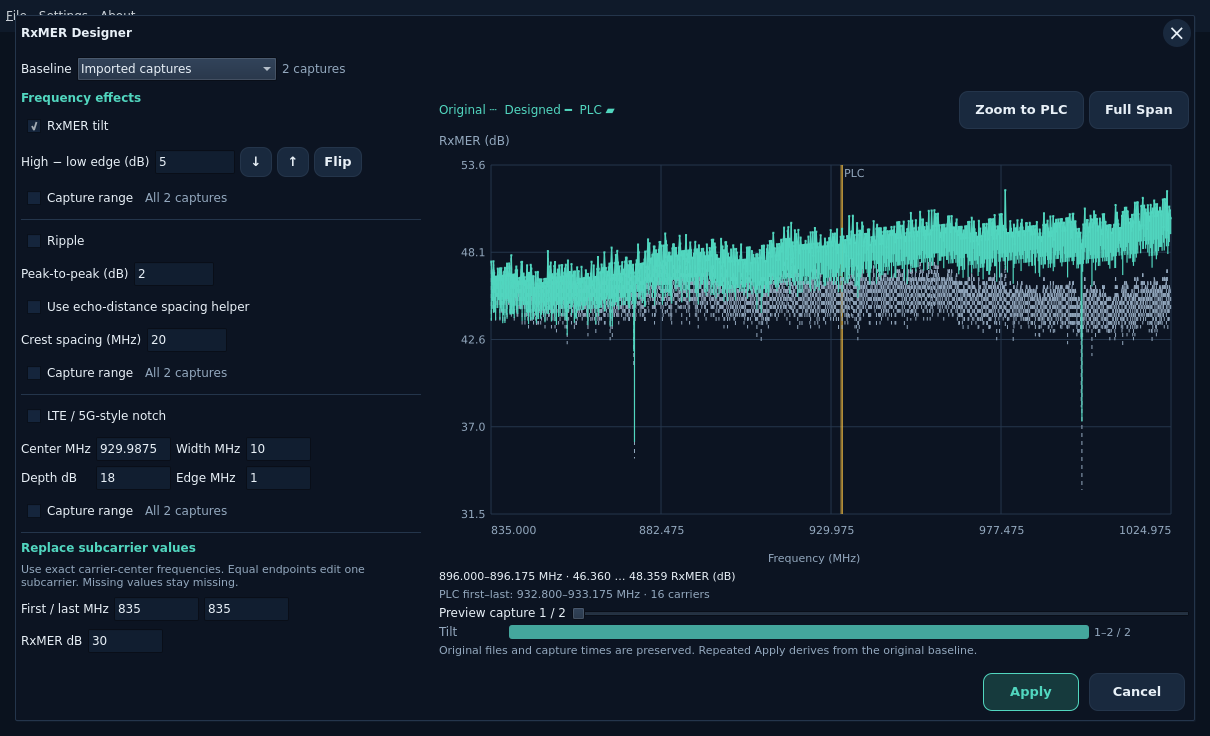
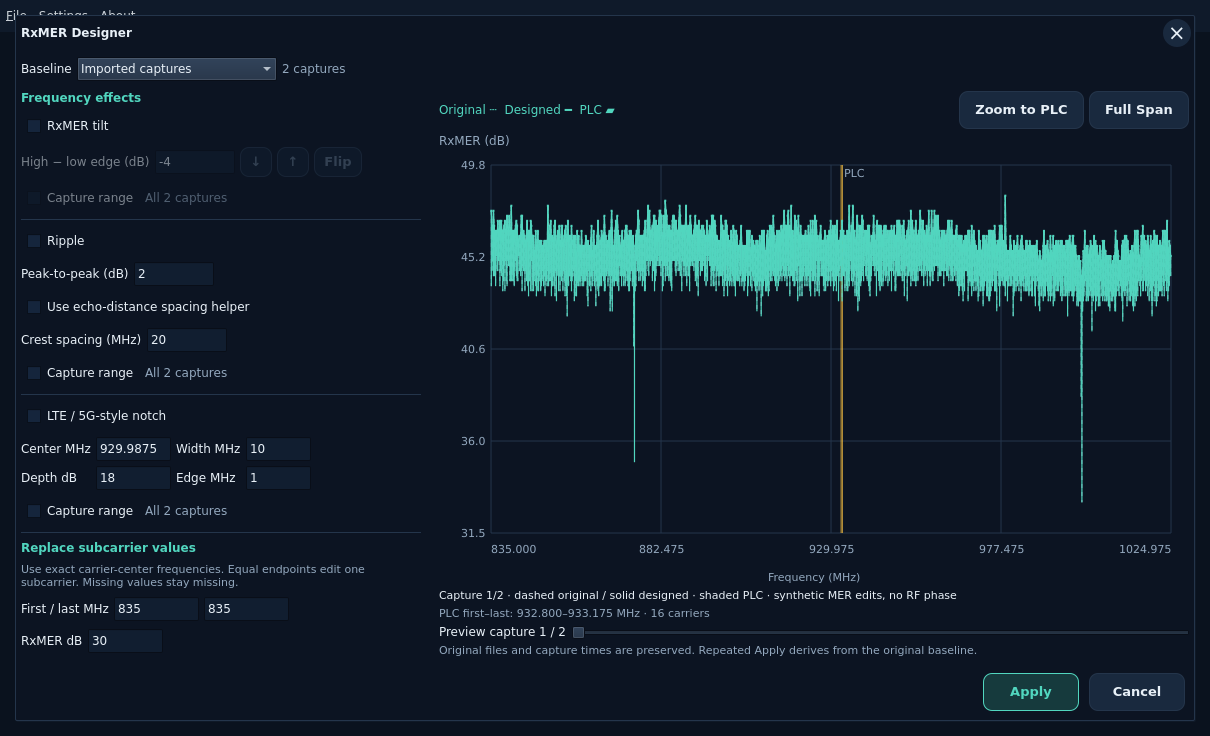
BugFix: Disable inactive RxMER tilt controls - Preserve tilt settings when toggled off - Update guide and native screenshot - Tests: 67 QML checks and native Qt build

diff --git a/apps/qt/qml/inputs/measurement_input/RxmerDesignerDialog.qml b/apps/qt/qml/inputs/measurement_input/RxmerDesignerDialog.qml
@@ -35,7 +35,7 @@ WorkbenchDialog {
     }
     function canStepTilt(delta) {
         const value=Number(tiltDb.text)
-        return tiltDb.text.trim().length>0 && Number.isFinite(value) && value>=-60 && value<=60 && value+delta>=-60 && value+delta<=60
+        return tilt.checked && tiltDb.text.trim().length>0 && Number.isFinite(value) && value>=-60 && value<=60 && value+delta>=-60 && value+delta<=60
     }
     function stepTilt(delta) {
         if (canStepTilt(delta)) {tiltDb.text=String(Number(tiltDb.text)+delta);refresh()}
@@ -99,7 +99,8 @@ WorkbenchDialog {
                     width:parent.width;spacing:8
                     Label {text:"Frequency effects";color:theme.accent;font.bold:true}
                     CheckBox {id:tilt;objectName:"designerTilt";text:"RxMER tilt";onToggled:dialog.refresh()}
-                    RowLayout {Label {text:"High − low edge (dB)";color:theme.text}
+                    RowLayout {enabled:tilt.checked;opacity:enabled ? 1:0.5
+                        Label {text:"High − low edge (dB)";color:theme.text}
                         TextField {
                             id:tiltDb;objectName:"designerTiltDb";text:"-4";Layout.preferredWidth:80
                             Accessible.name:"High minus low edge tilt in dB"
@@ -129,7 +130,7 @@ WorkbenchDialog {
                             Accessible.description:ToolTip.text
                         }
                     }
-                    RxmerDesignScope {id:tiltScope;theme:dialog.theme;captureCount:dialog.captureCount;onEdited:dialog.refresh()}
+                    RxmerDesignScope {id:tiltScope;objectName:"designerTiltScope";enabled:tilt.checked;opacity:enabled ? 1:0.5;theme:dialog.theme;captureCount:dialog.captureCount;onEdited:dialog.refresh()}
                     Rectangle {Layout.fillWidth:true; height:1;color:theme.line}
                     CheckBox {id:ripple;objectName:"designerRipple";text:"Ripple";onToggled:dialog.refresh()}
                     RowLayout {Label {text:"Peak-to-peak (dB)";color:theme.text}

diff --git a/apps/qt/tests/tst_rxmer_designer.qml b/apps/qt/tests/tst_rxmer_designer.qml
@@ -26,6 +26,30 @@ Pane {
     TestCase {
         name:"RxmerDesigner";when:windowShown
         function cleanup(){dialog.close();wait(100)}
+        function test_unchecked_tilt_disables_controls_and_retains_draft(){
+            dialog.open();tryCompare(dialog,"visible",true)
+            const toggle=findChild(dialog,"designerTilt"), field=findChild(dialog,"designerTiltDb")
+            const scope=findChild(dialog,"designerTiltScope")
+            const up=findChild(dialog,"designerTiltUp"), down=findChild(dialog,"designerTiltDown"), flip=findChild(dialog,"designerTiltFlip")
+            verify(!toggle.checked);verify(toggle.enabled)
+            verify(!field.enabled);verify(!scope.enabled)
+            verify(!up.enabled);verify(!down.enabled);verify(!flip.enabled)
+            mouseClick(toggle)
+            verify(field.enabled);verify(scope.enabled);verify(up.enabled);verify(down.enabled);verify(flip.enabled)
+            field.text="-6";scope.restore({mode:"range",first:10,last:20});dialog.refresh()
+            mouseClick(toggle)
+            verify(!field.enabled);verify(!scope.enabled)
+            verify(!up.enabled);verify(!down.enabled);verify(!flip.enabled)
+            compare(backend.lastRequest.recipe.tilt,null)
+            dialog.stepTilt(1);compare(field.text,"-6")
+            verify(findChild(dialog,"designerRipple").enabled)
+            verify(findChild(dialog,"designerNotch").enabled)
+            mouseClick(toggle)
+            compare(field.text,"-6");verify(scope.enabled)
+            compare(backend.lastRequest.recipe.tilt.tilt_db,-6)
+            compare(backend.lastRequest.recipe.tilt.scope.first,10)
+            compare(backend.lastRequest.recipe.tilt.scope.last,20)
+        }
         function test_flip_reverses_signed_tilt_without_changing_magnitude_or_zoom(){
             dialog.open();tryCompare(dialog,"visible",true)
             findChild(dialog,"designerTilt").checked=true

diff --git a/docs/user/measurement-inputs/rxmer-designer.md b/docs/user/measurement-inputs/rxmer-designer.md
@@ -7,8 +7,10 @@ an association anchor; it is not a measured acquisition time.
 
 ![RxMER Designer with a continuous PLC region](../../images/workbench/rxmer-designer-dark.png)
 
-Enable the effects you need. The tilt text box remains editable; its **↓ / ↑**
-buttons or the field’s Up/Down keys adjust the current value by exactly **1 dB**.
+Enable the effects you need. When **RxMER tilt** is unchecked, its value,
+arrows, Flip and capture-range controls are disabled. Their settings are retained
+and restored when you check it again. With tilt enabled, the text box remains
+editable; its **↓ / ↑** buttons or the field’s Up/Down keys adjust the current value by exactly **1 dB**.
 Fractional typed values remain supported. Steps beyond ±60 dB or from invalid
 text are disabled. Press **Flip** beside the arrows to reverse the tilt direction
 by changing its sign: **−5 dB ↔ +5 dB**. Positive tilt raises the high-frequency

diff --git a/docs/development/features/rxmer-designer/design.md b/docs/development/features/rxmer-designer/design.md
@@ -90,3 +90,12 @@ and retains magnitude, capture scope and zoom. Disable it for zero or invalid
 text. Existing Rust recipe validation and low-frequency anchoring remain the
 scientific authority. Verify both directions, fractional magnitude, bounds,
 keyboard activation and retained zoom; rebuild and capture the native window.
+
+## RXMER-DESIGN-06: disable inactive tilt controls
+
+Gate the tilt value/action row and capture scope on the RxMER tilt checkbox
+in RxmerDesignerDialog.qml. Dim inactive controls, preserve their draft values
+and keep Ripple and Notch independent. Guard stepping while tilt is off.
+Verify default disabled state, mouse toggling, retained values/scope and preview
+omission/restoration in QML; rebuild and inspect the native window. Scientific
+validation, persistence and Rust ownership remain unchanged.

diff --git a/docs/development/features/rxmer-designer/validation.md b/docs/development/features/rxmer-designer/validation.md
@@ -75,3 +75,11 @@ zoom. The native Qt executable is rebuilt; the guide explains the visible Flip
 button and signed slope direction. The scientific recipe and persistence format
 are unchanged. Native inspection confirms the positive and negative slopes
 reverse when Flip is clicked.
+
+## RXMER-DESIGN-06: inactive tilt controls
+
+All 67 QML checks pass. The new interaction test covers initial disabled state,
+mouse toggling, retained tilt and capture range, omitted/restored preview recipe,
+blocked stepping and independent sibling effects. The native Qt build passes;
+native dark inspection confirms the unchecked controls are dimmed and disabled,
+and checking tilt restores the controls. The guide capture is updated.

diff --git a/docs/development/checklist.md b/docs/development/checklist.md
@@ -1207,3 +1207,8 @@ validation are complete; the user guide includes the current dark capture.
   keyboard activation, fractional values, zero and invalid drafts;
   66 QML checks and the rebuilt native Qt application pass.
   [Design](features/rxmer-designer/design.md#rxmer-design-05-reverse-tilt-direction).
+
+- [x] **RXMER-DESIGN-06** Disable the tilt value, step/Flip actions and
+  capture scope while RxMER tilt is unchecked; preserve drafts and keep
+  other effects independent. All 67 QML checks and the native build pass.
+  [Design](features/rxmer-designer/design.md#rxmer-design-06-disable-inactive-tilt-controls).
